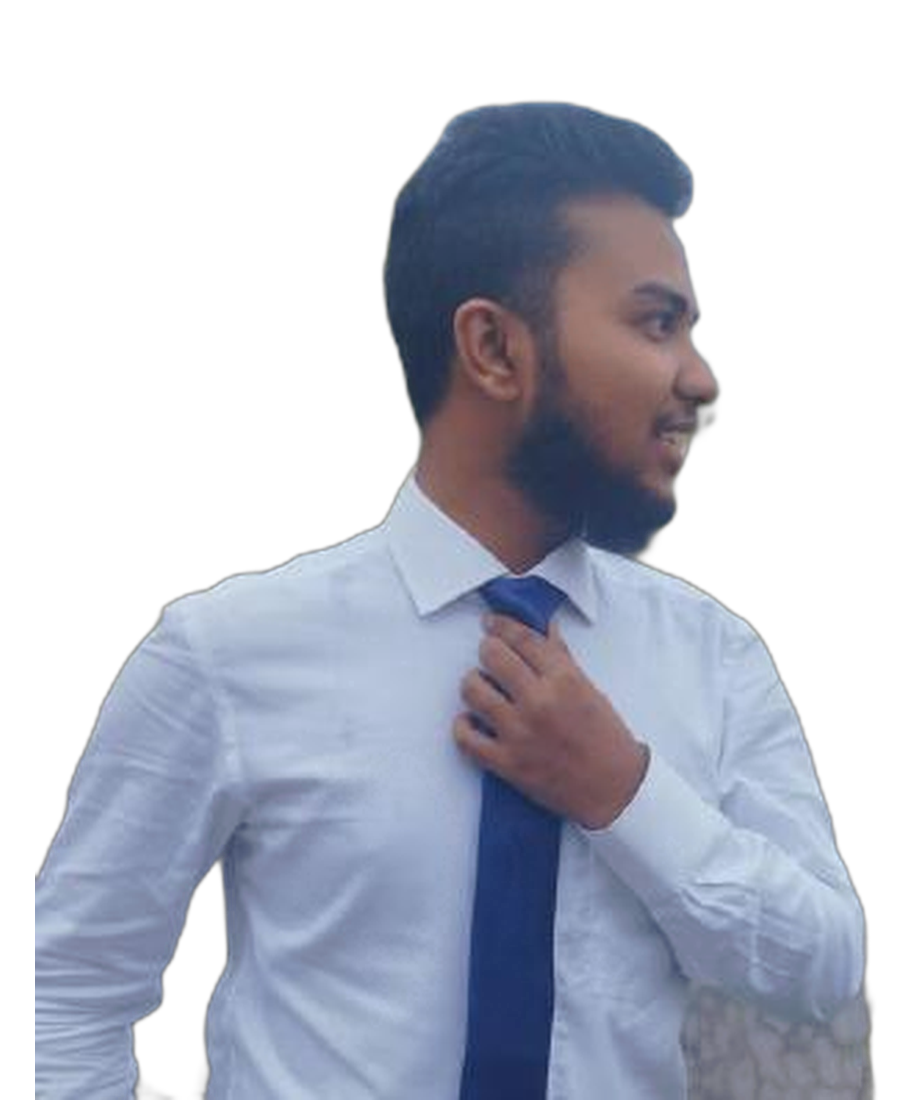
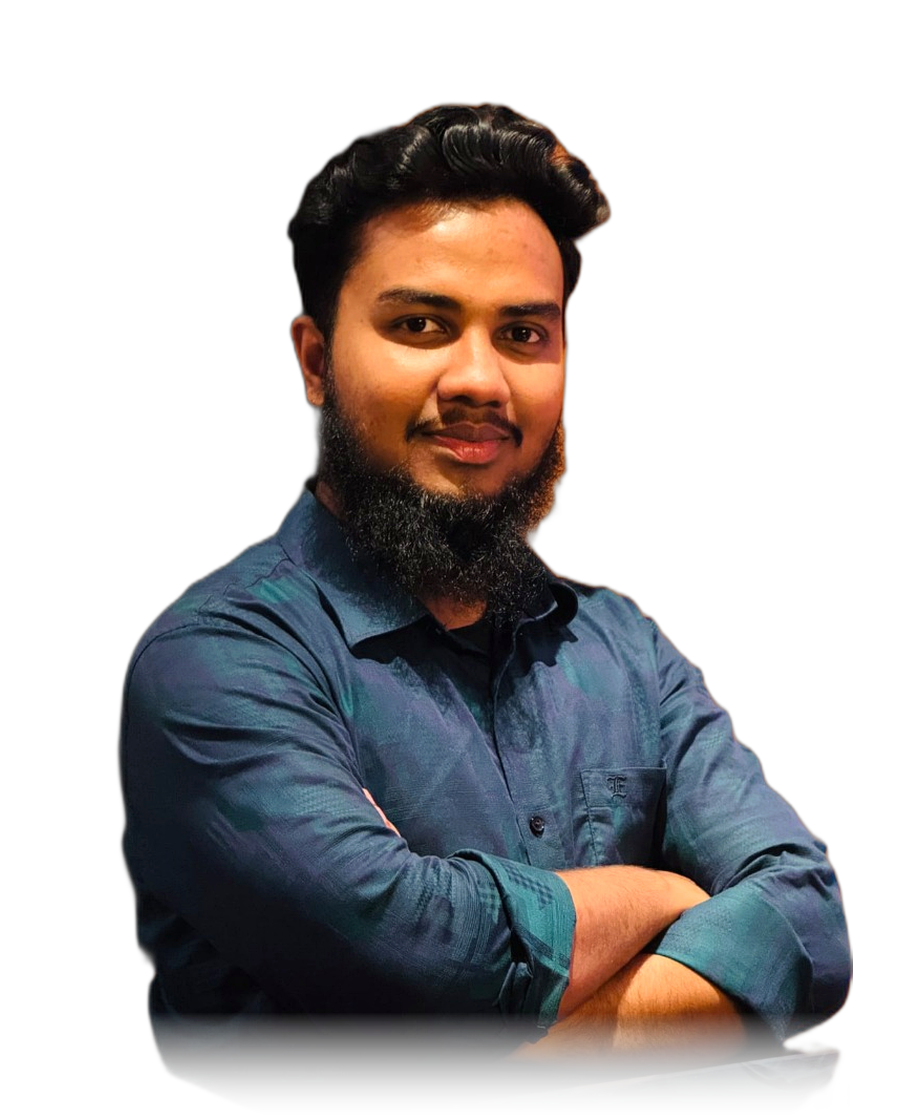
feat: enhance portrait photo, update Mid-Day Programming Club leadership and education timeline

diff --git a/data.md b/data.md
@@ -36,18 +36,18 @@
 ## Hero
 <!-- display_name is the huge outlined name behind your photo (first word / second word go on two lines on phones). -->
 - display_name: Mohiul Rabby
-- tagline: Software Engineer, Competitive Programmer & CSE Student at JKKNIU.
+- tagline: Software Engineer, Executive at Mid-Day Programming Club & CSE Student at JKKNIU.
 
 ## Summary
-It has always been my passion to learn new things, explore new ideas, and focus on self-development. I have consistently sought every available opportunity to improve my skills. Computer Science & Engineering undergraduate at Jatiya Kabi Kazi Nazrul Islam University (JKKNIU), passionate about software engineering, algorithmic problem solving, and building robust systems. Proficient in C, C++, Java, and Python with hands-on experience in full-stack web and database development. Dedicated to pursuing technical excellence with sincerity, honesty, and hard work.
+It has always been my passion to learn new things, explore new ideas, and focus on self-development. I have consistently sought every available opportunity to improve my skills. Computer Science & Engineering undergraduate at Jatiya Kabi Kazi Nazrul Islam University (JKKNIU), passionate about software engineering, algorithmic problem solving, and building robust systems. Executive at Mid-Day Programming Club, JKKNIU with hands-on experience across C, C++, Java, and Python. Dedicated to pursuing technical excellence with sincerity, honesty, and hard work.
 
 ## Overview
 <!-- Text for the tiles in the About / Overview section. The Education tile also reads the first row of the Education table. -->
 - title: Software engineer by passion, problem solver by discipline.
 - degree: B.Sc. in CSE
 - cgpa_max: 4
-- leadership_role: Active Leader & Problem Solver
-- leadership_text: Department of CSE, JKKNIU — competitive programmer & collaborative builder.
+- leadership_role: Executive
+- leadership_text: Mid-Day Programming Club, JKKNIU — organizing programming contests, mentoring students & technical leadership.
 - cp_title: CPS Academy Batch-3 · CodeChef & LeetCode
 - cp_text: Solved 350+ algorithmic problems across LeetCode, CodeChef, HackerRank, StopStalk & TryHackMe.
 
@@ -55,9 +55,9 @@ It has always been my passion to learn new things, explore new ideas, and focus 
 <!-- Value can be a number, or a number with a suffix (550+). Write "auto" to count every contest listed below. -->
 | Value | Label |
 |---|---|
-| 350+ | Problems solved across platforms |
+| 350+ | Coding problems solved |
+| 500+ | LinkedIn professional connections |
 | 100+ | LeetCode & CodeChef solves |
-| 5 | Perfect 5.00 GPA in Board Exams |
 | auto | Contests & achievements listed |
 
 ## Skills
@@ -65,7 +65,7 @@ It has always been my passion to learn new things, explore new ideas, and focus 
 C, C++, Java, Python, SQL, JavaScript, HTML5/CSS3, TypeScript
 
 ### Tools
-Git, GitHub, VS Code, Code::Blocks, Linux CLI, Cisco Packet Tracer, MySQL
+Git, GitHub, VS Code, IntelliJ IDEA, Code::Blocks, Linux CLI, Cisco Packet Tracer, MySQL, Replit
 
 ### Security
 TryHackMe, HackTheBox, Web Security, System Security, Network Basics
@@ -80,7 +80,7 @@ Linux (Ubuntu), Windows
 | gold | 5.00 | HSC GPA 5.00 | Agricultural Univ. College |
 | gold | 5.00 | SSC GPA 5.00 | Shaheed Smriti Bidyapeeth |
 | gold | 5.00 | JSC GPA 5.00 | Shaheed Smriti Bidyapeeth |
-| teal | Batch-3 | CPS Academy CP | Competitive Programming |
+| teal | Exec | Mid-Day Prog. Club | Executive Leadership |
 | indigo | Solver | CodeChef & LeetCode | Algorithmic Problem Solving |
 | bronze | Active | TryHackMe & HTB | Cyber Security Labs |
 
@@ -125,7 +125,7 @@ Linux (Ubuntu), Windows
 <!-- The first row is your current degree (used in the Overview tile). -->
 | Degree | School | Period | Score |
 |---|---|---|---|
-| B.Sc. Computer Science and Engineering | Jatiya Kabi Kazi Nazrul Islam University | 09/2023 – Present | CGPA 3.80 |
+| B.Sc. Computer Science and Engineering | Jatiya Kabi Kazi Nazrul Islam University | Sep 2023 – Apr 2027 | CGPA 3.80 |
 | Higher Secondary Certificate (HSC) | Agricultural University College, Mymensingh | 01/2020 – 01/2022 | GPA 5.00 |
 | Secondary School Certificate (SSC) | Shaheed Smriti Bidyapeeth, Kutub Pur, Kendua | 01/2019 – 01/2020 | GPA 5.00 |
 | Junior School Certificate (JSC) | Shaheed Smriti Bidyapeeth, Kutub Pur, Kendua | 01/2018 – 01/2019 | GPA 5.00 |
@@ -133,8 +133,9 @@ Linux (Ubuntu), Windows
 ## Leadership
 | Role | Organization | Period |
 |---|---|---|
-| Active Member & CSE Representative | Department of CSE, JKKNIU | 2023 – Present |
-| Competitive Programming Enthusiast | CPS Academy Community | 2024 – Present |
+| Executive | Mid-Day Programming Club, JKKNIU | Oct 2025 – Present |
+| Active Member & CSE Representative | Department of CSE, JKKNIU | Sep 2023 – Present |
+| Competitive Programming Enthusiast | CPS Academy Community | Jan 2024 – Present |
 | Student Coordinator | Shaheed Smriti Bidyapeeth Alumni | 2020 – 2022 |
 
 ## Projects

diff --git a/posts/software-engineering/object-oriented-principles.md b/posts/software-engineering/object-oriented-principles.md
@@ -25,3 +25,4 @@ public:
 - **Prefer Composition over Inheritance**: Fragile base classes create maintenance overhead; inject interfaces wherever possible.
 - **Enforce Encapsulation**: Guard class invariants and expose state solely through meaningful methods.
 - **Leverage Strong Typing**: Let the compiler catch domain errors before runtime.
+

diff --git a/public/posts/software-engineering-object-oriented-principles.md b/public/posts/software-engineering-object-oriented-principles.md
@@ -18,3 +18,4 @@ public:
 - **Prefer Composition over Inheritance**: Fragile base classes create maintenance overhead; inject interfaces wherever possible.
 - **Enforce Encapsulation**: Guard class invariants and expose state solely through meaningful methods.
 - **Leverage Strong Typing**: Let the compiler catch domain errors before runtime.
+

diff --git a/posts/systems/student-information-management-system.md b/posts/systems/student-information-management-system.md
@@ -22,3 +22,4 @@ SIMS follows a layered Model-View-Controller (MVC) pattern:
 - **Role-Based Access**: Distinct permission boundaries for department admins and students.
 
 Building SIMS provided deep practical experience in relational database normalization, exception handling, and robust object-oriented software engineering.
+

diff --git a/public/posts/systems-student-information-management-system.md b/public/posts/systems-student-information-management-system.md
@@ -15,3 +15,4 @@ SIMS follows a layered Model-View-Controller (MVC) pattern:
 - **Role-Based Access**: Distinct permission boundaries for department admins and students.
 
 Building SIMS provided deep practical experience in relational database normalization, exception handling, and robust object-oriented software engineering.
+

diff --git a/posts/competitive-programming/binary-search-mastery.md b/posts/competitive-programming/binary-search-mastery.md
@@ -36,3 +36,4 @@ while (low <= high) {
 3. **Double check the transition**: Verify whether you need the first `True` or the last `False`.
 
 Continuous practice on CodeChef and LeetCode reinforces this intuition until designing the `check()` predicate becomes second nature.
+

diff --git a/public/posts/competitive-programming-binary-search-mastery.md b/public/posts/competitive-programming-binary-search-mastery.md
@@ -29,3 +29,4 @@ while (low <= high) {
 3. **Double check the transition**: Verify whether you need the first `True` or the last `False`.
 
 Continuous practice on CodeChef and LeetCode reinforces this intuition until designing the `check()` predicate becomes second nature.
+

diff --git a/README.md b/README.md
@@ -77,3 +77,4 @@ You can publish writeups in two ways:
 2. Go to [Vercel](https://vercel.com/) -> **Add New Project** -> Import your repository.
 3. Framework preset **Vite** is auto-detected (`npm run build`, output: `dist`).
 4. Click **Deploy**!
+
